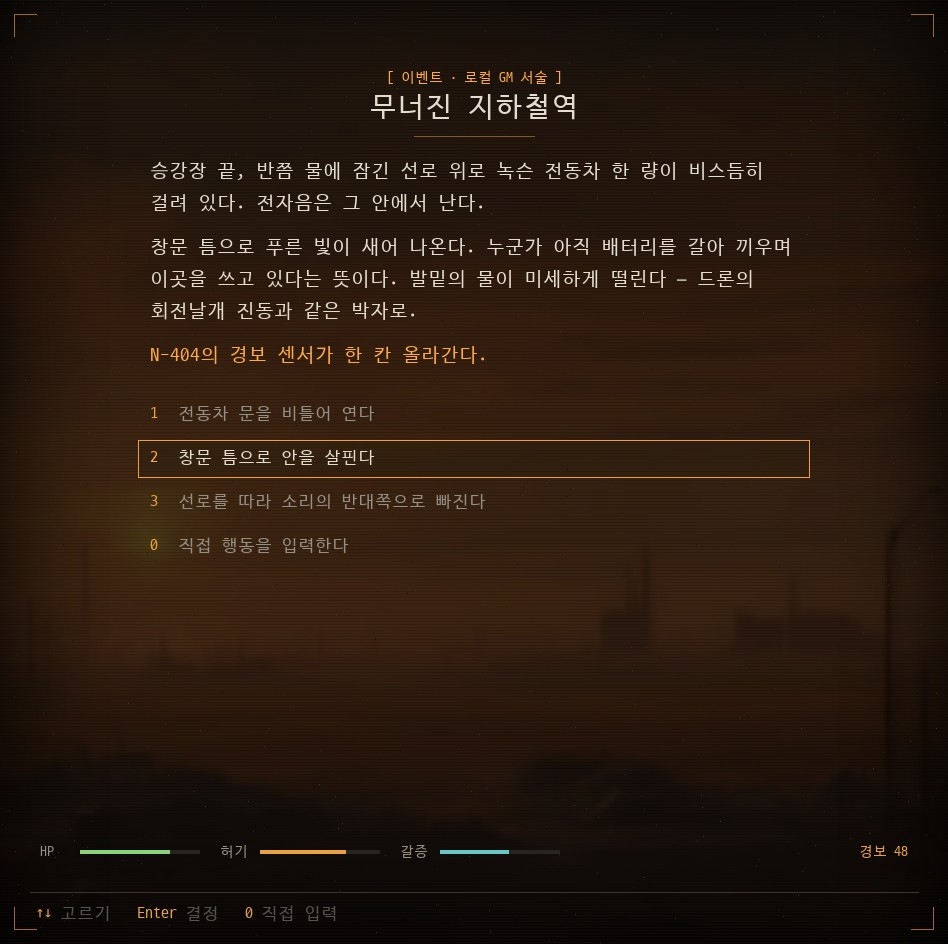
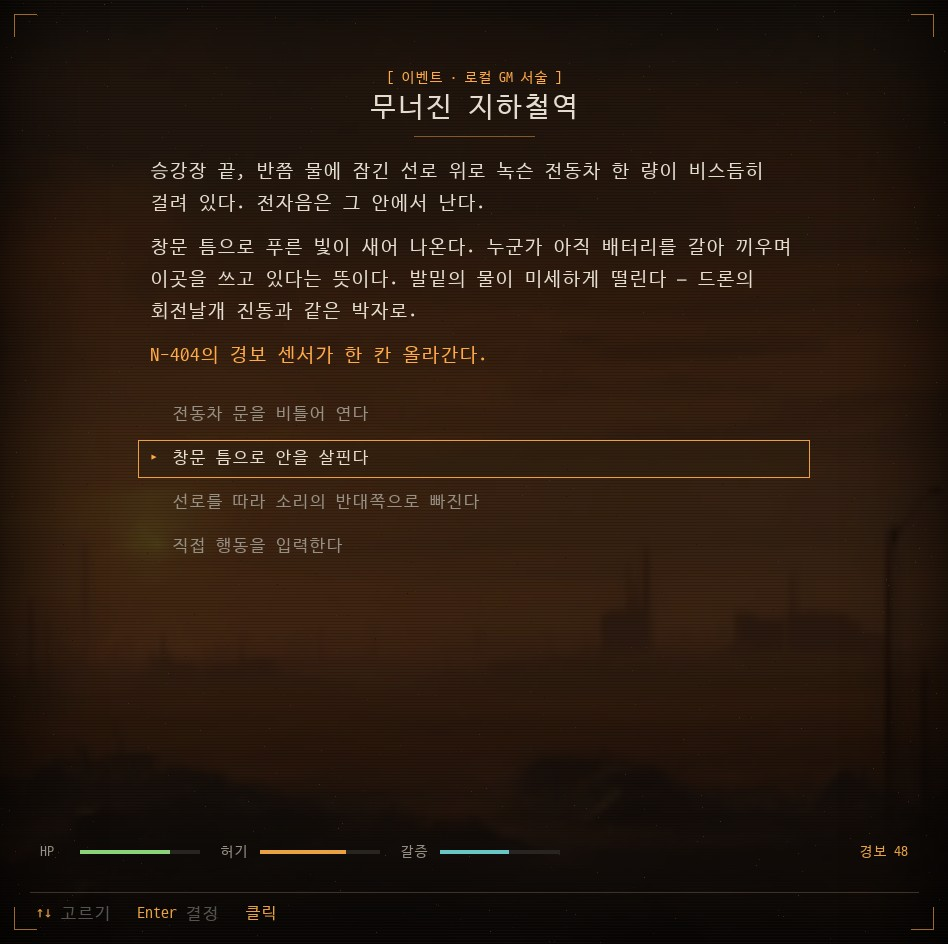
기획: 절충안 선택지 번호 숨김 (방향키·클릭으로 고르고 숫자키는 보이지 않는 단축키)

Changed region(s): [[0.1835, 0.5222, 0.52, 0.5837], [0.1835, 0.4301, 0.3977, 0.4915], [0.2447, 0.9523, 0.3365, 0.9831]]

diff --git a/기획/정면뷰_목업/절충안/hybrid.py b/기획/정면뷰_목업/절충안/hybrid.py
@@ -54,10 +54,12 @@ def h2():
     for i, (k, l, hint) in enumerate(items):
         on = i == 1; r = pygame.Rect(COL_X - 12, y - 6, COL_W + 24, 38)
         if on: panel(c, r, 120, None); m._sensor_frame(c, r, SEN, 11)
-        text(c, m.f_mono_b, k, SEN if on else AMBER, (COL_X, y + 2)); text(c, m.f_sans, l, INK if on else INK_DIM, (COL_X + 28, y + 2))
+        # 번호는 안 보인다 (숫자키는 그대로 동작). 고른 줄만 ▸ 표시와 테두리
+        if on: text(c, m.f_mono_b, "▸", SEN, (COL_X, y + 2))
+        text(c, m.f_sans, l, INK if on else INK_DIM, (COL_X + 22, y + 2))
         y += 44
     mini_status(c, H - 100)
-    footer(c, [("↑↓", "고르기"), ("Enter", "결정"), ("0", "직접 입력")])
+    footer(c, [("↑↓", "고르기"), ("Enter", "결정"), ("클릭", "")])
     save(c, "h2_story")
 
 def h3():

diff --git a/기획/정면뷰_목업/README.md b/기획/정면뷰_목업/README.md
@@ -27,7 +27,7 @@
 | 파일 | 장면 |
 |---|---|
 | 1_탐색_그림가득.jpg | 무너진 지하철역 — 평소 탐색 |
-| 2_이야기시작_글이주인공.jpg | 같은 장면, GM 서술 + 선택지 + 직접 입력 (선택지에 능력치·결과 힌트는 붙이지 않는다) |
+| 2_이야기시작_글이주인공.jpg | 같은 장면, GM 서술 + 선택지 + 직접 입력 (선택지에 번호·능력치·결과 힌트를 붙이지 않는다. 방향키·클릭으로 고르고 숫자키는 보이지 않는 단축키로 남긴다) |
 | 3_직접행동입력_GM판정.jpg | 플레이어가 쓴 행동 → GM 서술 → 판정·획득·경보, 다음 행동 입력 칸 |
 
 판단 기준: 이 게임의 정체성은 그림이 아니라 글(파인튜닝 GM 서술, 직접 행동 입력, 일지). 그림은 무대, 이야기가 시작되면 글에 자리를 내준다.
